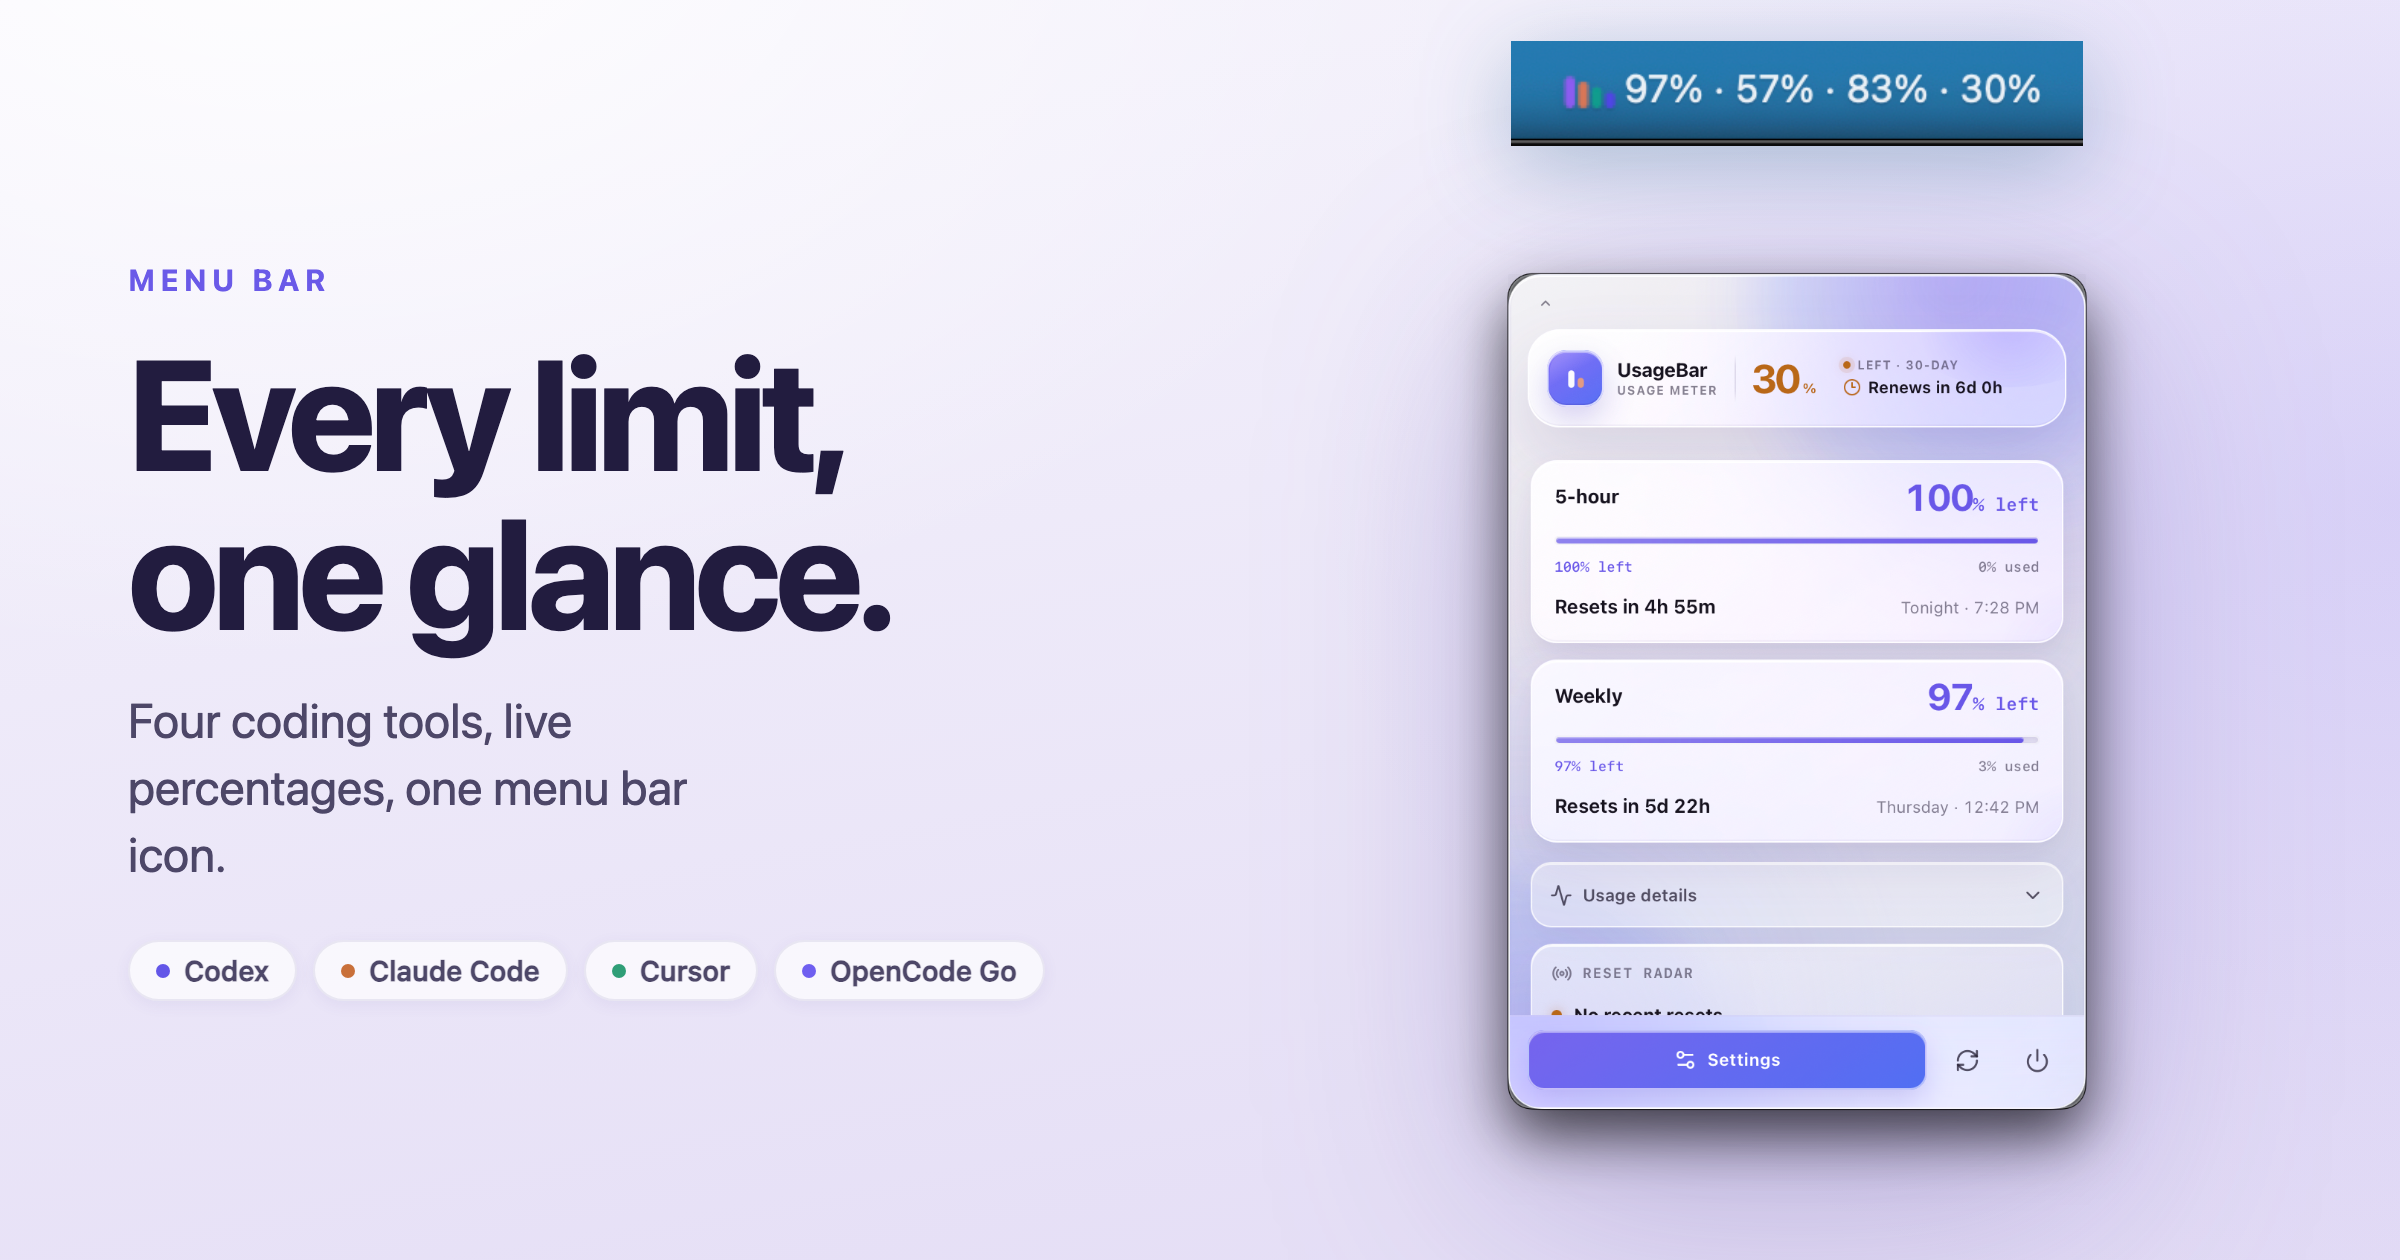
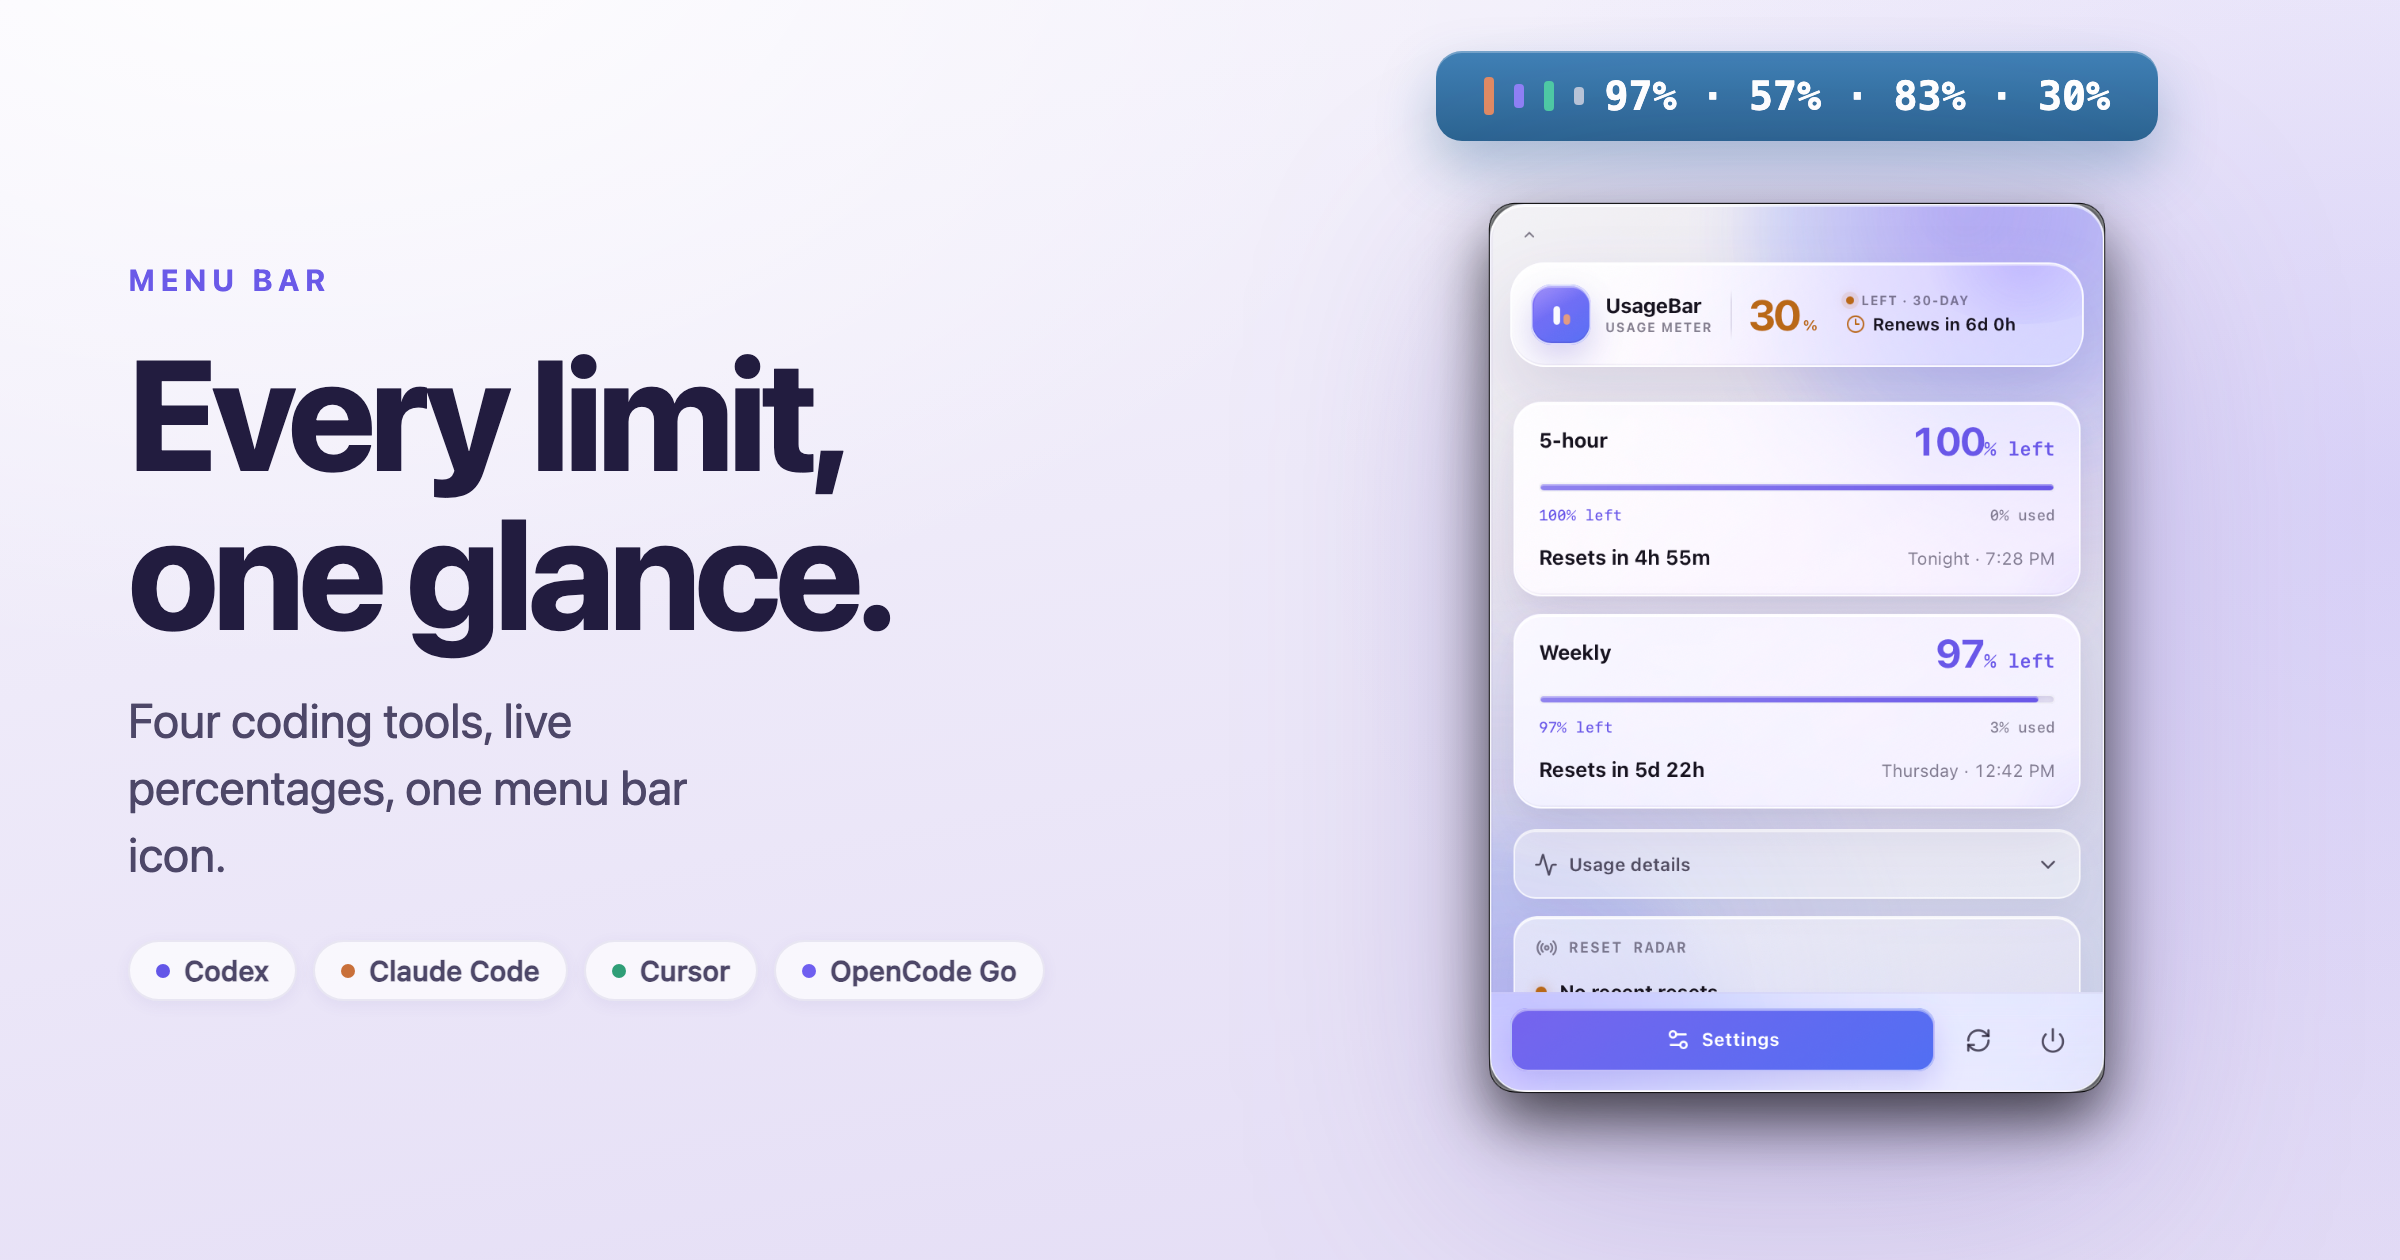
Draw the menu-bar pill in CSS and keep feature copy on the left.
Drop the cropped screenshot that never quite matched the live icon, and stop flipping every other product row.

Changed region(s): [[0.5938, 0.031, 0.9062, 0.9286]]

diff --git a/website/site.css b/website/site.css
@@ -28,7 +28,6 @@ html {
     radial-gradient(1100px 700px at 12% -8%, rgba(255, 255, 255, 0.85), transparent 55%),
     radial-gradient(900px 700px at 100% 40%, rgba(124, 104, 240, 0.16), transparent 60%),
     linear-gradient(170deg, var(--bg-top) 0%, var(--bg) 100%);
-  background-attachment: fixed;
 }
 body {
   color: var(--ink);
@@ -246,29 +245,43 @@ h1 {
   display: flex;
   flex-direction: column;
   align-items: center;
-  gap: 4px;
 }
 .stage .pill {
-  width: min(300px, 70%);
-  height: auto;
-  filter: drop-shadow(0 10px 22px rgba(43, 99, 144, 0.35));
-  margin-bottom: 10px;
+  display: inline-flex;
+  align-items: center;
+  gap: 11px;
+  padding: 12px 26px;
+  border-radius: 13px;
+  background: linear-gradient(180deg, #4080b6, #2b6390);
+  color: #fff;
+  font-family: var(--mono);
+  font-size: 21px;
+  font-weight: 600;
+  font-variant-numeric: tabular-nums;
+  letter-spacing: -0.01em;
+  box-shadow: inset 0 1px 0 rgba(255, 255, 255, 0.28), 0 14px 28px rgba(43, 99, 144, 0.35);
+  margin-bottom: -26px;
 }
+.stage .pill i { display: block; width: 5px; border-radius: 2px; background: var(--claude); }
+.stage .pill i:nth-child(1) { height: 20px; }
+.stage .pill i:nth-child(2) { height: 13px; background: #8f7ff5; }
+.stage .pill i:nth-child(3) { height: 16px; background: #4ec9a4; }
+.stage .pill i:nth-child(4) { height: 10px; background: #b8c4d8; }
 .stage .mock {
-  width: min(430px, 88%);
+  width: min(470px, 88%);
   height: auto;
-  filter: drop-shadow(0 36px 60px rgba(88, 68, 160, 0.32));
+  filter: drop-shadow(0 36px 56px rgba(88, 68, 160, 0.24));
 }
 
 /* ---------- Feature rows ---------- */
 .feature {
   display: grid;
   grid-template-columns: minmax(0, 1fr) minmax(0, 1fr);
-  gap: 40px 72px;
+  gap: 40px 64px;
   align-items: center;
   max-width: 1120px;
   margin: 0 auto;
-  padding: 56px 24px;
+  padding: 40px 24px;
 }
 .feature .copy { max-width: 26em; }
 .feature h2 {
@@ -287,12 +300,10 @@ h1 {
 }
 .feature .shot { display: flex; justify-content: center; }
 .feature .shot img {
-  width: min(400px, 82%);
+  width: min(440px, 85%);
   height: auto;
-  filter: drop-shadow(0 32px 56px rgba(88, 68, 160, 0.3));
+  filter: drop-shadow(0 30px 48px rgba(88, 68, 160, 0.22));
 }
-.feature.flip .copy { order: 2; justify-self: end; text-align: left; }
-.feature.flip .shot { order: 1; }
 
 /* ---------- Platform cards ---------- */
 .platforms {
@@ -424,10 +435,8 @@ footer a { color: var(--body); }
 @media (max-width: 900px) {
   .hero { grid-template-columns: 1fr; padding-top: 44px; gap: 44px; }
   .stage { order: 2; }
-  .feature { grid-template-columns: 1fr; gap: 28px; padding: 44px 24px; }
+  .feature { grid-template-columns: 1fr; gap: 28px; padding: 36px 24px; }
   .feature .copy { max-width: 34em; }
-  .feature.flip .copy { order: 1; justify-self: start; }
-  .feature.flip .shot { order: 2; }
   .platforms { grid-template-columns: 1fr; }
 }
 @media (max-width: 640px) {
@@ -440,7 +449,13 @@ footer a { color: var(--body); }
   footer { padding-left: 16px; padding-right: 16px; }
   h1 { font-size: 42px; }
   .cta-row .btn { flex: 1; justify-content: center; }
-  .stage .mock { width: min(340px, 92%); }
+  .stage .pill { font-size: 16px; padding: 9px 18px; gap: 8px; margin-bottom: -18px; }
+  .stage .pill i { width: 4px; }
+  .stage .pill i:nth-child(1) { height: 15px; }
+  .stage .pill i:nth-child(2) { height: 10px; }
+  .stage .pill i:nth-child(3) { height: 12px; }
+  .stage .pill i:nth-child(4) { height: 8px; }
+  .stage .mock { width: min(360px, 92%); }
 }
 
 @media (prefers-reduced-motion: reduce) {

diff --git a/website/og.html b/website/og.html
@@ -31,8 +31,19 @@
     .chip::before { content: ""; width: 7px; height: 7px; border-radius: 50%; background: var(--dot); }
     .stage { display: flex; flex-direction: column; align-items: center; }
     .stage img { display: block; }
-    .pill { width: 286px; filter: drop-shadow(0 10px 22px rgba(43,99,144,.35)); margin-bottom: 12px; }
-    .mock { width: 372px; filter: drop-shadow(0 32px 56px rgba(88,68,160,.32)); }
+    .pill {
+      display: inline-flex; align-items: center; gap: 10px; padding: 11px 24px; border-radius: 13px;
+      background: linear-gradient(180deg, #4080b6, #2b6390); color: #fff;
+      font-family: ui-monospace, Menlo, monospace; font-size: 20px; font-weight: 600;
+      box-shadow: inset 0 1px 0 rgba(255,255,255,.28), 0 14px 28px rgba(43,99,144,.35);
+      margin-bottom: -24px;
+    }
+    .pill i { display: block; width: 5px; border-radius: 2px; background: #e08a63; }
+    .pill i:nth-child(1) { height: 19px; }
+    .pill i:nth-child(2) { height: 12px; background: #8f7ff5; }
+    .pill i:nth-child(3) { height: 15px; background: #4ec9a4; }
+    .pill i:nth-child(4) { height: 9px; background: #b8c4d8; }
+    .mock { width: 396px; filter: drop-shadow(0 32px 56px rgba(88,68,160,.28)); }
   </style>
 </head>
 <body>
@@ -49,7 +60,7 @@
       </div>
     </div>
     <div class="stage">
-      <img class="pill" src="screens/menubar-pill.png" alt="" />
+      <div class="pill"><i></i><i></i><i></i><i></i>97% · 57% · 83% · 30%</div>
       <img class="mock" src="screens/popover-codex.png" alt="" />
     </div>
   </div>

diff --git a/website/index.html b/website/index.html
@@ -61,7 +61,7 @@
         <p class="fine">macOS 10.15+. Signed and notarized. No UsageBar server — your quota never lands on one.</p>
       </div>
       <div class="stage" aria-hidden="true">
-        <img class="pill" src="screens/menubar-pill.png" alt="" width="394" height="72" />
+        <div class="pill"><i></i><i></i><i></i><i></i>97% · 57% · 83% · 30%</div>
         <img class="mock" src="screens/popover-codex.png" alt="UsageBar popover showing Codex 5-hour and weekly quota windows" width="1000" height="1410" />
       </div>
     </section>
@@ -75,7 +75,7 @@
       <div class="shot"><img src="screens/popover-claude.png" alt="UsageBar popover showing Claude Code 5-hour, weekly, and Fable quota windows" width="1000" height="1410" loading="lazy" /></div>
     </section>
 
-    <section class="feature flip">
+    <section class="feature">
       <div class="copy">
         <p class="eyebrow">Cursor</p>
         <h2>Plan, Auto and API</h2>
@@ -93,7 +93,7 @@
       <div class="shot"><img src="screens/popover-opencode.png" alt="UsageBar popover showing OpenCode Go 5-hour, weekly, and monthly meters" width="1000" height="1410" loading="lazy" /></div>
     </section>
 
-    <section class="feature flip">
+    <section class="feature">
       <div class="copy">
         <p class="eyebrow">Settings</p>
         <h2>Choose what<br />to track</h2>
